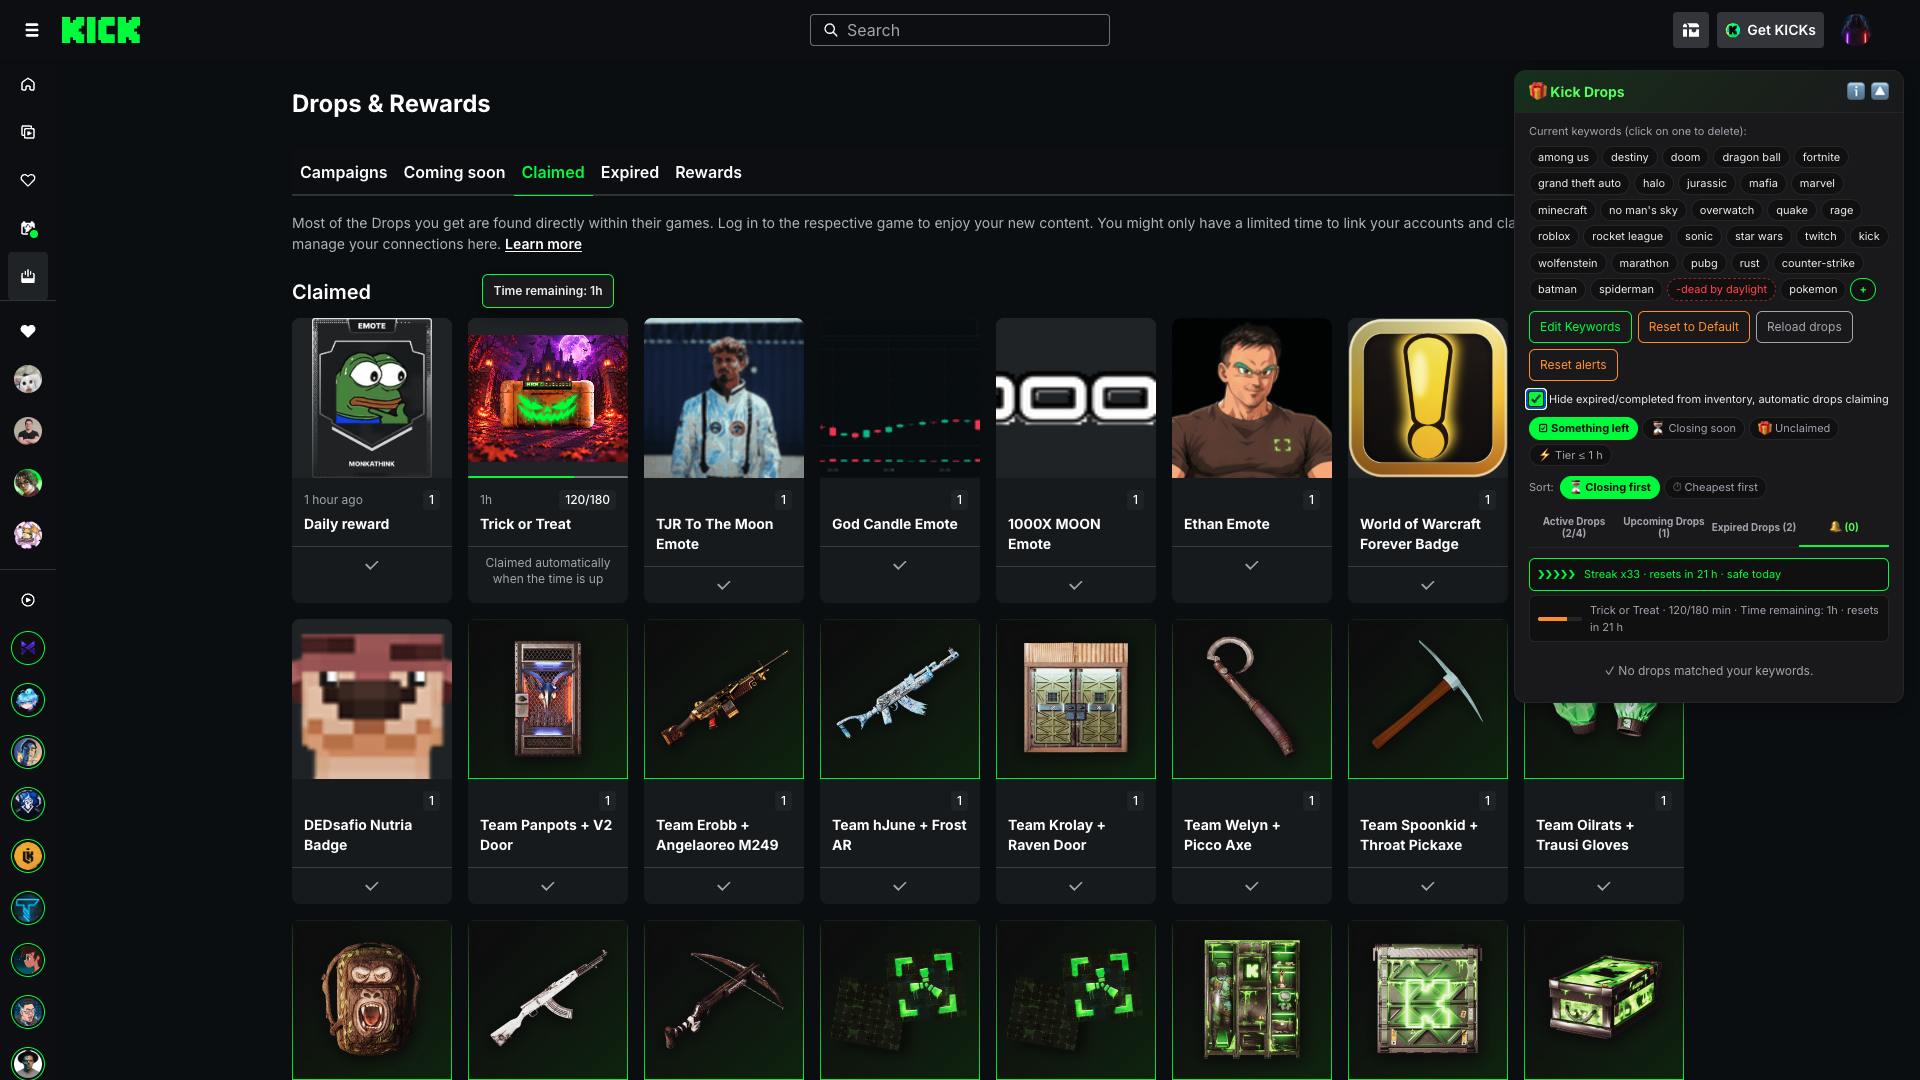
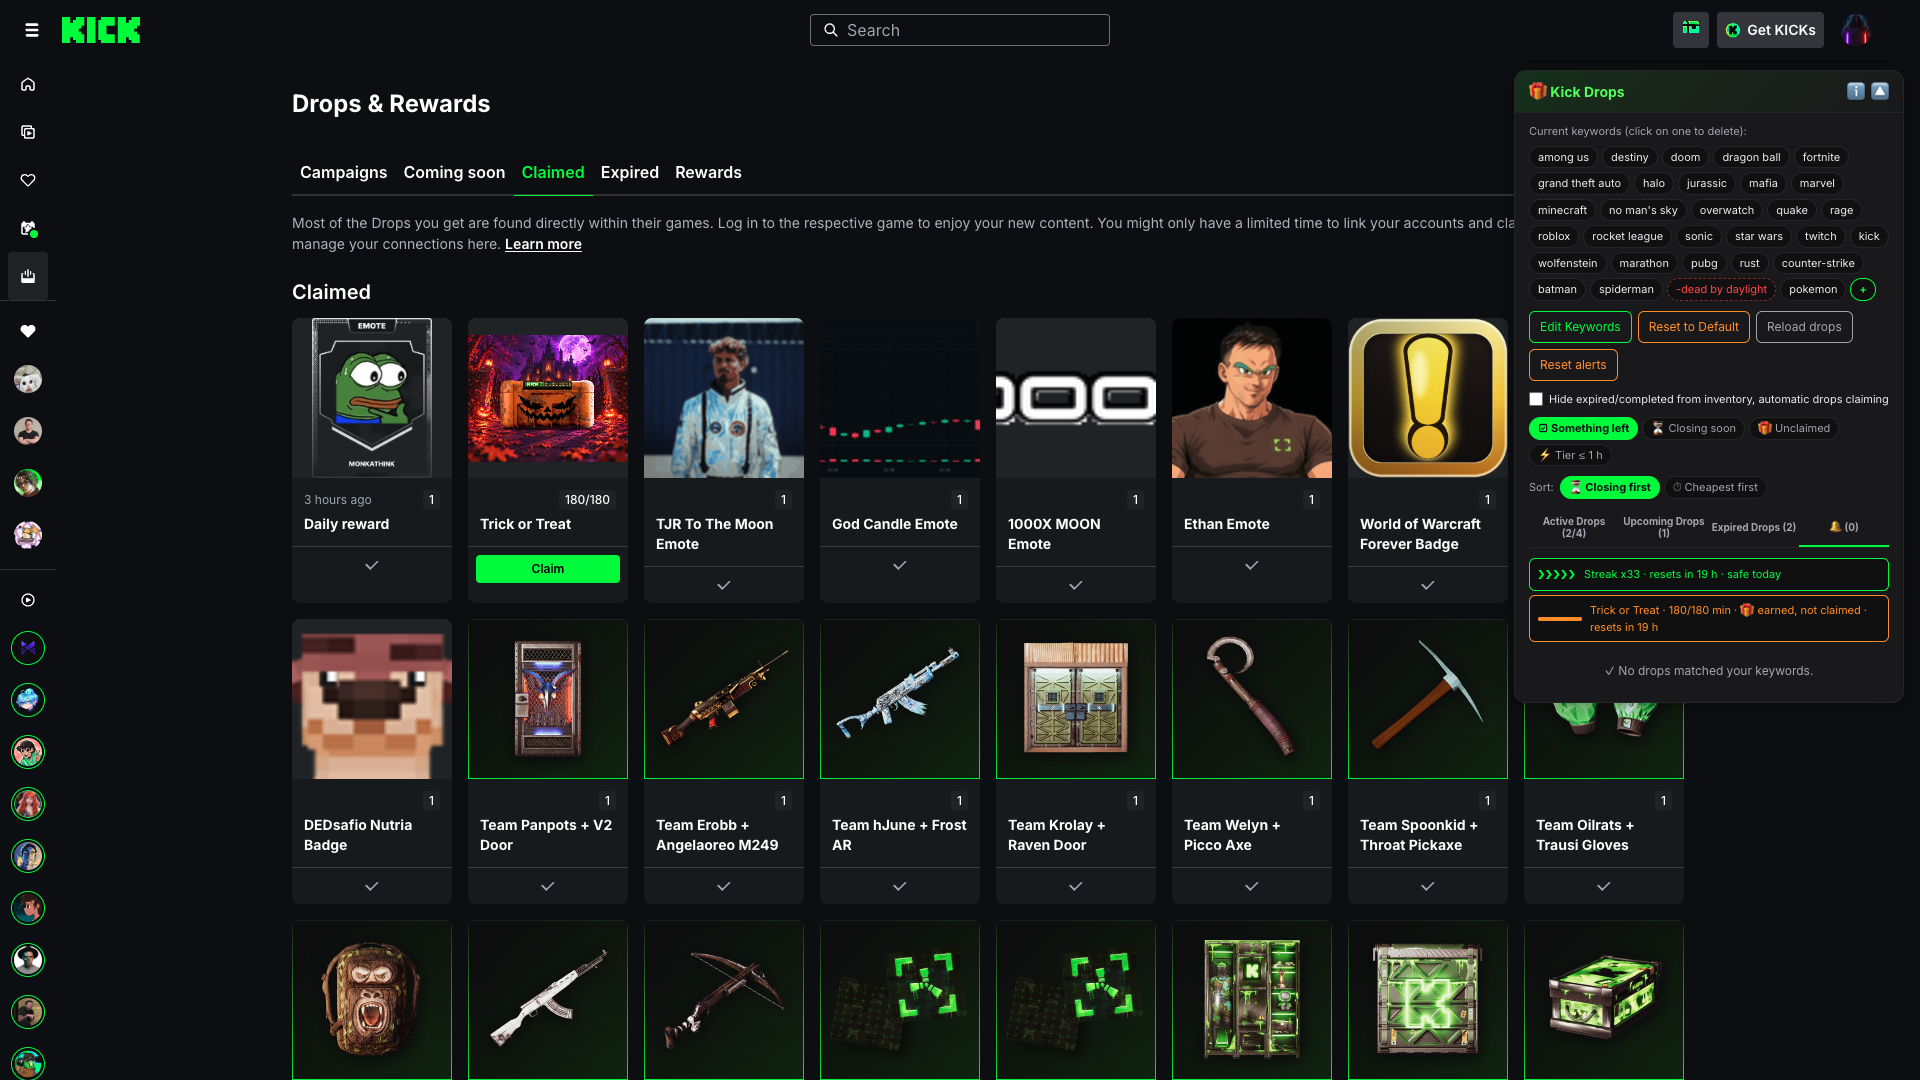
fix(kick-drops-highlighter): el cofre de evento cobrado enseña lo que tocó —Kick manda la carta vacía y el premio en thumbnail_url— en vez del cofre, y capturas del evento listo para cobrar y cobrado en el README — bump 1.3.31 -> 1.3.32

diff --git a/kick-drops-highlighter.user.js b/kick-drops-highlighter.user.js
@@ -1,7 +1,7 @@
 // ==UserScript==
 // @name         Kick Drops Highlighter + Keywords (Full + i18n)
 // @namespace    http://tampermonkey.net/
-// @version      1.3.31
+// @version      1.3.32
 // @description  Drops panel for Kick. Kick hands you a wall of campaigns with no way to say which games you care about, and never tells you how much watch time a drop still needs — only a bar that says it is in progress. This outlines the ones your keywords match on the page itself and puts the exact time left on every card, daily chest included. Its queries only read; claiming is optional and ships off. The rest is in "Script Information" and in the repository. 16 languages.
[1 lines of base64/hex data omitted]
 // @match        https://kick.com/drops/*
@@ -19,7 +19,7 @@
 
 (function () {
     "use strict";
-    const SCRIPT_VERSION = "1.3.31";
+    const SCRIPT_VERSION = "1.3.32";
     console.log("Kick Drops Highlighter cargado (document-start). Version:", SCRIPT_VERSION);
 
     // ==== =========================================
@@ -7966,7 +7966,7 @@
         //   claimed      como las demas baldosas: la ✓ y el cuando. Y aqui el "cuando" si
         //                existe, que `claimed_at` lo trae —al contrario que los drops,
         //                donde esa linea sale vacia—; y la imagen pasa a ser lo que toco
-        //                (`winner.card_url`) cuando viene.
+        //                (`winner.card_url`, o `thumbnail_url` si no hay carta) cuando viene.
         //
         // Un status desconocido no pinta nada, igual que no avisa: uno nuevo —un "perdido"
         // para el dia que se cierra sin cobrar— caeria por descarte en in_progress y la
@@ -8074,7 +8074,13 @@
             card.id = op.id;
             card.className = `${W_SURFACE} flex flex-col rounded-lg overflow-hidden`;
 
-            const won = (claimed && c.winner && c.winner.card_url) || '';
+            // La carta, o la miniatura si no hay carta. El cofre diario reparte emotes con
+            // su carta (`card_url`) y su escudo (`thumbnail_url`), y se prefiere la carta,
+            // que es lo que enseña Kick. El de evento no: el «Trick or Treat» cobrado el
+            // 2026-10-23 traia `card_url: ""` y la imagen solo en `thumbnail_url`
+            // (content.kick.com/public/rewards/thumbnails/…), y sin este respaldo la baldosa
+            // seguia enseñando el cofre despues de cobrarlo.
+            const won = (claimed && c.winner && (c.winner.card_url || c.winner.thumbnail_url)) || '';
             // LAS DOS VAN ENTERAS (`contain`), y desde el 2026-09-17 tambien la carta que
             // toca. El cofre ya iba asi porque lleva su propio margen negro; la carta iba
             // recortada (`cover`) por parecerse a las de recompensa, y no se parece: las

diff --git a/tests/test-cofre-evento.js b/tests/test-cofre-evento.js
@@ -171,7 +171,9 @@ const base = {
         challenges: [evento({
             status: 'claimed', condition: { type: 'watch_time_minutes', progress: 180, threshold: 180 },
             claimed_at: iso(Date.now() - hora),
-            winner: { id: 'w1', rarity: 'rare', card_url: 'https://files.kick.com/rewards/carta.png' }
+            // La forma real del 2026-10-23: el evento trae la carta VACIA y la imagen en la
+            // miniatura.
+            winner: { id: 'w1', rarity: 'common', card_url: '', thumbnail_url: 'https://content.kick.com/public/rewards/thumbnails/premio.png' }
         }), diario()]
     });
     const evc = (cobrado.cofresEvento || [])[0];
@@ -179,7 +181,7 @@ const base = {
     if (!evc) fallos.push('el evento cobrado no pintó baldosa');
     else {
         if (evc.pie !== 'check') fallos.push(`el evento cobrado tiene pie "${evc.pie}"`);
-        if (evc.imagen !== 'https://files.kick.com/rewards/carta.png') fallos.push(`el evento cobrado no enseña la carta: ${evc.imagen}`);
+        if (evc.imagen !== 'https://content.kick.com/public/rewards/thumbnails/premio.png') fallos.push(`el evento cobrado no enseña lo que tocó (thumbnail_url): ${evc.imagen}`);
         if (evc.video) fallos.push('el evento cobrado sigue con el video del cofre en vez de la carta');
     }
 

diff --git a/tests/test-cofre-diario.js b/tests/test-cofre-diario.js
@@ -142,7 +142,8 @@ const base = {
             status: 'claimed',
             condition: { type: 'watch_time_minutes', progress: 60, threshold: 60 },
             claimed_at: iso(Date.now() - 2 * hora),
-            winner: { id: 'w1', rarity: 'rare', card_url: 'drops/reward-image/carta.png' }
+            // Con carta Y miniatura, como lo trae el diario: manda la carta.
+            winner: { id: 'w1', rarity: 'rare', card_url: 'drops/reward-image/carta.png', thumbnail_url: 'https://ext.cdn.kick.com/chat/emotes/shields/escudo.png' }
         })
     });
     anota('ya cobrado', hecho);
@@ -153,6 +154,7 @@ const base = {
         // Aqui el "cuando" SI existe: `claimed_at` lo trae, al contrario que los drops.
         if (!hecho.cofre.izquierda) fallos.push('claimed: la tarjeta no dice cuando se cobro, y el dato viene en claimed_at');
         if (hecho.cofre.imagen === 'cofre') fallos.push('claimed: se quedo el cofre en vez de la carta que toco (winner.card_url)');
+        else if (!/carta\.png$/.test(hecho.cofre.imagen || '')) fallos.push(`claimed: con carta y miniatura tenia que ir la carta: ${hecho.cofre.imagen}`);
     }
 
     // --- Status desconocido y ventana cerrada: nada -------------------------------

diff --git a/README.md b/README.md
@@ -55,9 +55,13 @@ Userscript that classifies and highlights drops/campaigns on Kick based on your 
 
 *Halloween 2026: Kick runs a second chest, *Trick or Treat*, next to the daily one, and **it gets a tile of its own** right after it — with the name Kick gives it, its own *0/180*, the *3h* it needs and **its own chest, the animated one from Kick's window**, taken from Kick's API rather than shipped with the script, so a Christmas chest would show up the same way. Hovering it says *Time remaining: 3h*. Both tiles say they will be claimed by themselves, because the checkbox is ticked. **In the panel, right under the streak meter, the event gets a band of its own**: *Trick or Treat · 0/180 min · Time remaining: 3h · resets in 21 h*. It is purely informative —no beep, no 👁, nothing to dismiss— because an event chest neither saves nor breaks the streak; the meter above it is still the daily chest's alone. / Halloween de 2026: Kick lleva un segundo cofre, *Trick or Treat*, junto al diario, y **tiene su propia baldosa** justo detrás — con el nombre que le da Kick, su propio *0/180*, las *3h* que le faltan y **su propio cofre, el animado de la ventana de Kick**, sacado de la API de Kick y no incluido en el script, así que un cofre de Navidad saldría igual. El ratón encima dice *Time remaining: 3h*. Las dos baldosas dicen que se reclamarán solas, porque la casilla está marcada. **En el panel, justo debajo del medidor de racha, el evento lleva su propia banda**: *Trick or Treat · 0/180 min · Time remaining: 3h · resets in 21 h*. Es solo informativa —sin pitido, sin 👁, sin nada que descartar— porque un cofre de evento no salva ni rompe la racha; el medidor de encima sigue siendo solo del cofre diario.*
 
-![The claimed tab with the daily chest already claimed an hour ago showing the card it gave, the Trick or Treat tile at 120/180 next to it, the claimed drops after them, and the panel on the 🔔 tab with the streak meter at x33 and safe, and the event's band at 120/180 with its bar part-filled](docs/screenshot-event-chest.png)
+![The claimed tab with the daily chest claimed three hours ago showing the card it gave, the Trick or Treat tile at 180/180 with a green Claim button, the claimed drops after them, and the panel on the 🔔 tab with the streak meter at x33 and safe, and the event's band at 180/180 saying earned, not claimed](docs/screenshot-event-chest.png)
 
-*The same pair later in the day, on an account with drops: the daily chest is **claimed** —*1 hour ago*, with the card it gave instead of the chest— while the event is still counting at *120/180*, with Kick's progress bar under its chest and the *1h* it still needs. **Each chest is its own**: the daily one being done says nothing about the event, and the automatic claim presses whichever one is ready in Kick's carousel, not the first button it finds. The panel tells both sides at once: the streak meter green at *x33 · safe today*, and under it the event's band with its bar two-thirds full, *120/180 min · Time remaining: 1h*. Clicking either tile, or the band, opens Kick's window **on that chest's slide**, since Kick always opens its carousel on the first one. / La misma pareja más tarde, en una cuenta con drops: el cofre diario está **cobrado** —*1 hour ago*, con la carta que dio en lugar del cofre— mientras el evento sigue contando en *120/180*, con la barra de progreso de Kick bajo su cofre y la *1h* que le falta. **Cada cofre va por su lado**: que el diario esté hecho no dice nada del evento, y el reclamo automático pulsa el que esté listo en el carrusel de Kick, no el primer botón que encuentre. El panel cuenta las dos cosas a la vez: el medidor de racha en verde, *x33 · safe today*, y debajo la banda del evento con su barra a dos tercios, *120/180 min · Time remaining: 1h*. Pulsar cualquiera de las dos baldosas, o la banda, abre la ventana de Kick **en la diapositiva de ese cofre**, porque Kick abre siempre su carrusel por la primera.*
+*The same pair later in the day, on an account with drops: the daily chest is **claimed** —*3 hours ago*, with the card it gave instead of the chest— while the event has just reached *180/180* and its footer turns into a **Claim** button. **Each chest is its own**: the daily one being done says nothing about the event, and the button presses the event's own *Claim* inside Kick's carousel, not the first one it finds. The checkbox is off here, so nothing claims it by itself and the button waits for you. The panel tells both sides at once: the streak meter green at *x33 · safe today*, and under it the event's band full and orange, *180/180 min · 🎁 earned, not claimed*. Clicking either tile, or the band, opens Kick's window **on that chest's slide**, since Kick always opens its carousel on the first one. / La misma pareja más tarde, en una cuenta con drops: el cofre diario está **cobrado** —*3 hours ago*, con la carta que dio en lugar del cofre— mientras el evento acaba de llegar a *180/180* y su pie pasa a ser un botón **Claim**. **Cada cofre va por su lado**: que el diario esté hecho no dice nada del evento, y el botón pulsa el *Claim* del propio evento dentro del carrusel de Kick, no el primero que encuentre. Aquí la casilla está quitada, así que nada lo cobra por su cuenta y el botón te espera. El panel cuenta las dos cosas a la vez: el medidor de racha en verde, *x33 · safe today*, y debajo la banda del evento llena y en naranja, *180/180 min · 🎁 earned, not claimed*. Pulsar cualquiera de las dos baldosas, o la banda, abre la ventana de Kick **en la diapositiva de ese cofre**, porque Kick abre siempre su carrusel por la primera.*
+
+![The same claimed tab a few minutes later, with the Trick or Treat tile now claimed eleven minutes ago and showing the prize it gave, a vampire emote, and the panel's event band green with a tick](docs/screenshot-event-chest-claimed.png)
+
+*And once it is claimed: the event tile swaps its chest for **what it gave** —here an emote— with *11 minutes ago* and the tick, like the daily one next to it. The two chests do not hand it out the same way: the daily one sends a card, and the event one sent an empty card and **only a thumbnail**, so the tile falls back to that; without it, the tile kept showing the chest after the claim. The band goes green with a ✓, and both chests are done for the day. / Y una vez cobrado: la baldosa del evento cambia su cofre por **lo que dio** —aquí un emote— con *11 minutes ago* y la ✓, igual que la del diario de al lado. Los dos cofres no lo entregan igual: el diario manda una carta, y el del evento mandó la carta vacía y **solo una miniatura**, así que la baldosa usa esa; sin ella, la baldosa seguía enseñando el cofre después de cobrarlo. La banda pasa a verde con una ✓, y los dos cofres quedan hechos por hoy.*
 
 <img src="docs/screenshot-time-remaining.png" width="200" alt="The script's own tooltip reading Time remaining: 32m over a reward tile whose own text says 32 min to unlock">
 
